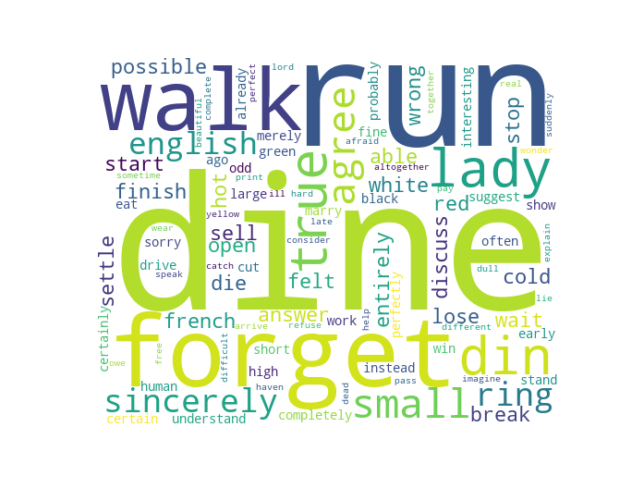
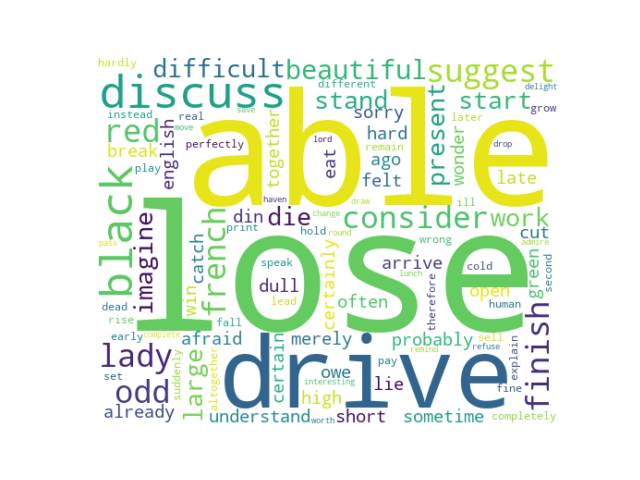
mudanças para remover também os tokens muito frequentes

diff --git a/src/models/topics.py b/src/models/topics.py
@@ -21,7 +21,8 @@ from utils import *
 """
 constants
 """
-N_MOST_FREQUENT_TO_REMOVE: int = 110
+# N_MOST_FREQUENT_TO_REMOVE: int = 150
+IGNORE: int = 1
 
 """
 prints topics as word distributions
@@ -172,14 +173,21 @@ def build_letter_corpus(vw: pd.DataFrame) -> (list, list, corpora.dictionary.Dic
 	letters = list(vw["text"]) # each line is a tokenized letter
 	dictionary = corpora.Dictionary(letters)
 
-	dict_before = deepcopy(dictionary)
-	tokens_before = [dict_before[id] for id in dict_before]
-	dictionary.filter_n_most_frequent(N_MOST_FREQUENT_TO_REMOVE)
-	tokens_after = [dictionary[id] for id in dictionary]
-	removed = [token for token in tokens_before if token not in tokens_after]
-	log(removed, "removed_frequent_tokens")
+	"""
+	remove extremes (most frequent and least frequent) tokens
+	"""
+	original_dict = deepcopy(dictionary) # for logging purposes
+	original_tokens = [original_dict[id] for id in original_dict]
+	dictionary.filter_extremes(no_above=0.07, no_below=IGNORE) # remove most frequent (above 10% of corpus)
+	tokens_without_frequent = [dictionary[id] for id in dictionary]
+	removed_frequent = [token for token in original_tokens if token not in tokens_without_frequent]
+	log(removed_frequent, "removed_frequent_tokens")
+	dictionary.filter_extremes(no_below=4, no_above=IGNORE) # remove least frequent (below 4 documents)
+	tokens_without_rare = [dictionary[id] for id in dictionary]
+	removed_rare = [token for token in tokens_without_frequent if token not in tokens_without_rare]
+	log(removed_rare, "removed_rare_tokens")
 
-	print(F"Gensim dictionary initialized and stripped of {N_MOST_FREQUENT_TO_REMOVE} most frequent words.")
+	print(F"Gensim dictionary initialized and stripped of extremes: {len(removed_frequent)} frequent tokens and {len(removed_rare)} rare tokens. (Dictionary size: {len(original_dict)} -> {len(dictionary)})")
 
 	corpus = [dictionary.doc2bow(letter) for letter in letters]
 	print("Gensim corpus of BOWs initialized.")
@@ -203,7 +211,7 @@ def model(n_topics, beta=None, saved=False) -> dict:
 			corpus,
 			num_topics=n_topics,
 			id2word=dictionary,
-			passes=10,
+			passes=15,
 			eta=beta,
 			random_state=1,
 			workers=3
@@ -343,7 +351,7 @@ def plot_topics_per_year(vw: pd.DataFrame) -> None:
 	plt.legend()
 	plt.grid(True, axis="y")
 	ax.set_axisbelow(True)
-	plt.savefig(f"{GRAPHS_PATH}topic_frequency_per_year.png")
+	plt.savefig(f"{GRAPHS_PATH}lda{n_topics}_topic_frequency_per_year.png")
 	plt.clf()
 
 """
@@ -375,14 +383,13 @@ def plot_topics_per_recipient(vw: pd.DataFrame) -> None:
 	for i in range(3):
 		for j in range(4):
 			rec: str = top_recs_list[it]
-			print(rec)
 			row = recs[recs["recipient"] == rec][columns]
 			values = [int(row[col]) for col in row.columns]
-			axs[i,j].pie(values, colors=colors, labels=columns, labeldistance=0.5, textprops={"color": "white"})
+			axs[i,j].pie(values, colors=colors, labels=columns, labeldistance=0.5)
 			axs[i,j].set_xlabel(rec)
 			it += 1
 
-	plt.savefig(f"{GRAPHS_PATH}topic_frequency_per_recipient.png")
+	plt.savefig(f"{GRAPHS_PATH}lda{n_topics}_topic_frequency_per_recipient.png")
 	plt.clf()
 
 
@@ -403,7 +410,7 @@ evaluate 3-topic model
 """
 
 n_topics = 3 # selected model
-lda = model(n_topics, saved=True)["model"]
+lda = model(n_topics, saved=False)["model"]
 
 vws = get_topic_dists_dataframe(lda)
 vw, vws = set_main_topics(vw, vws)
@@ -411,7 +418,7 @@ vw, vws = set_main_topics(vw, vws)
 dictionary_tokens: list = list(dictionary.token2id.keys())
 vw["text"] = vw["text"].apply(lambda tokens: [t for t in tokens if t in dictionary_tokens]) # remove words not in dict (most frequent, removed earlier)
 
-# save_representative_letters(lda, 7, "Margaret Llewelyn Davies")
-# save_topic_wordclouds(lda)
+save_representative_letters(lda, 5)
+save_topic_wordclouds(lda)
 plot_topics_per_year(vw)
-# plot_topics_per_recipient(vw)
+plot_topics_per_recipient(vw)
